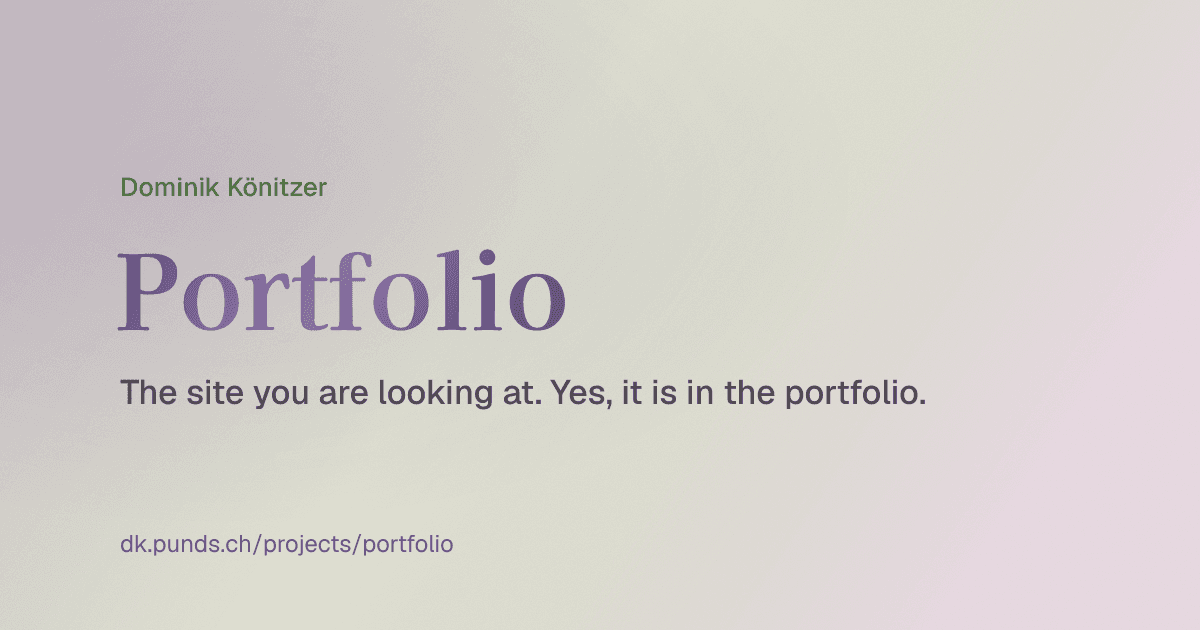
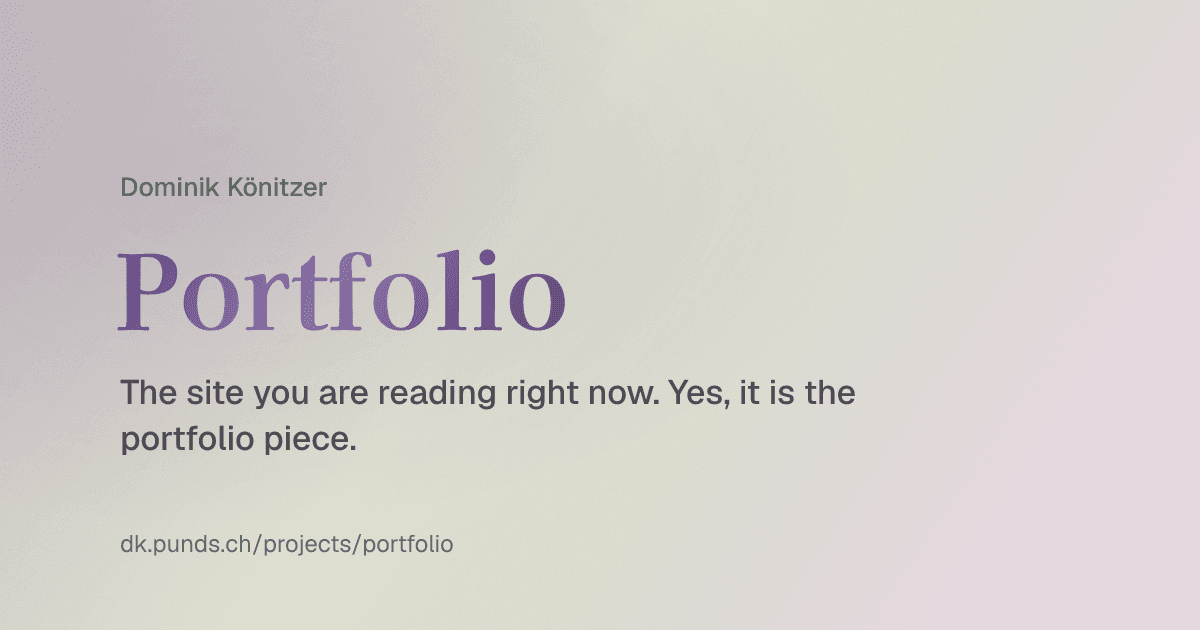
Take the share card subtitles from the current taglines

diff --git a/scripts/gen-og.ts b/scripts/gen-og.ts
@@ -170,28 +170,28 @@ const CARDS: { out: string; title: string; subtitle: string; path: string }[] = 
   { out: "public/og/skills.png", title: "Skills", subtitle: "What I work with day to day, and what I'm still getting better at", path: "/skills" },
   { out: "public/og/projects.png", title: "Projects", subtitle: "Things I built, most of them with the source", path: "/projects" },
   { out: "public/og/services.png", title: "Services", subtitle: "Web development and software engineering, Zürich or remote", path: "/services" },
-  { out: "public/og/contact.png", title: "Contact", subtitle: "Let's work together. One email is all it takes.", path: "/contact" },
+  { out: "public/og/contact.png", title: "Contact", subtitle: "Let's work together. A short form is all it takes.", path: "/contact" },
   { out: "public/og/donate.png", title: "Tip Jar", subtitle: "If something here clicked for you", path: "/donate" },
 ];
 
 // Per-project share cards (wired through ProjectDetails' <SEO image=...>, which
 // points at /og/projects/<slug>.png). Subtitles follow each project's tagline.
 const PROJECT_CARDS: { slug: string; title: string; subtitle: string }[] = [
-  { slug: "time", title: "Time", subtitle: "An NTP-synced clock, accurate to a hundredth of a second" },
-  { slug: "spectrum", title: "Spectrum", subtitle: "Five color tools under one roof, and none of them phone home" },
-  { slug: "entropy", title: "Entropy", subtitle: "Real randomness and an honest strength score, nothing leaves your browser" },
+  { slug: "time", title: "Time", subtitle: "Your device's clock is probably wrong. This one isn't." },
+  { slug: "spectrum", title: "Spectrum", subtitle: "Eight color tools that finally live under one roof, and none of them phone home" },
+  { slug: "entropy", title: "Entropy", subtitle: "Real randomness, and an honest guess at how long your password would last" },
   { slug: "zephyr", title: "Zephyr", subtitle: "A to-do list and a focus timer, all yours and all offline" },
-  { slug: "senbon", title: "Senbon", subtitle: "A digital garden that refuses to be found on Google. On purpose." },
-  { slug: "punds", title: "Punds", subtitle: "A CRT terminal that boots up to tell you where everything else lives" },
+  { slug: "senbon", title: "Senbon", subtitle: "A journal that refuses to be found on Google. On purpose." },
+  { slug: "punds", title: "Punds", subtitle: "A list of my links, hidden inside a 3D world you fly through" },
   { slug: "flow", title: "Flow", subtitle: "Clicks faster than you can, and never needs a coffee break" },
-  { slug: "jester", title: "Jester", subtitle: "Notepad, but it grew up. Tabs, line numbers, find in files, PDF export." },
+  { slug: "jester", title: "Jester", subtitle: "Notepad, but it grew up. Tabs, line numbers, find-in-files, PDF export." },
   { slug: "remnants", title: "Remnants", subtitle: "VS Code, minus the parts that talk back" },
-  { slug: "portfolio", title: "Portfolio", subtitle: "The site you are looking at. Yes, it is in the portfolio." },
-  { slug: "oxidize", title: "Oxidize", subtitle: "Uninstall a program, then hunt down what it left behind" },
-  { slug: "inkling", title: "Inkling", subtitle: "Your notes quietly turn into tasks and flashcards" },
-  { slug: "mochi", title: "Mochi", subtitle: "A tiling window manager that always gives the desktop back" },
-  { slug: "daifuku", title: "Daifuku", subtitle: "Six agents, one key, and a border that says who needs you" },
-  { slug: "psyche", title: "Psyche", subtitle: "Press Alt+P on a 2FA prompt and the code types itself" },
+  { slug: "portfolio", title: "Portfolio", subtitle: "The site you are reading right now. Yes, it is the portfolio piece." },
+  { slug: "oxidize", title: "Oxidize", subtitle: "Uninstalls the program, then hunts down everything it forgot to take with it" },
+  { slug: "inkling", title: "Inkling", subtitle: "Notes, to-dos and flashcards in one calm app" },
+  { slug: "mochi", title: "Mochi", subtitle: "A tiling window manager for Windows that always gives the desktop back" },
+  { slug: "daifuku", title: "Daifuku", subtitle: "Fleets of AI agent terminals on Windows, each border saying what its agent is doing" },
+  { slug: "psyche", title: "Psyche", subtitle: "Two-factor codes on the Windows desktop. Alt+P on a 2FA prompt types the code." },
 ];
 
 const fontFiles = await ensureFonts();

diff --git a/src/config/seo-data/projects.ts b/src/config/seo-data/projects.ts
@@ -29,7 +29,7 @@ const PROJECT_SEO_TITLES: Record<string, string> = {
   jester: "Jester, a tabbed Windows notepad",
   flow: "Flow, a Windows macro and auto-clicker",
   punds: "Punds, a 3D Lain-style link hub",
-  senbon: "Senbon, a markdown digital garden",
+  senbon: "Senbon, a markdown journal",
   oxidize: "Oxidize, a thorough Windows uninstaller",
   inkling: "Inkling, a desktop study companion",
   mochi: "Mochi, a Windows tiling window manager",
